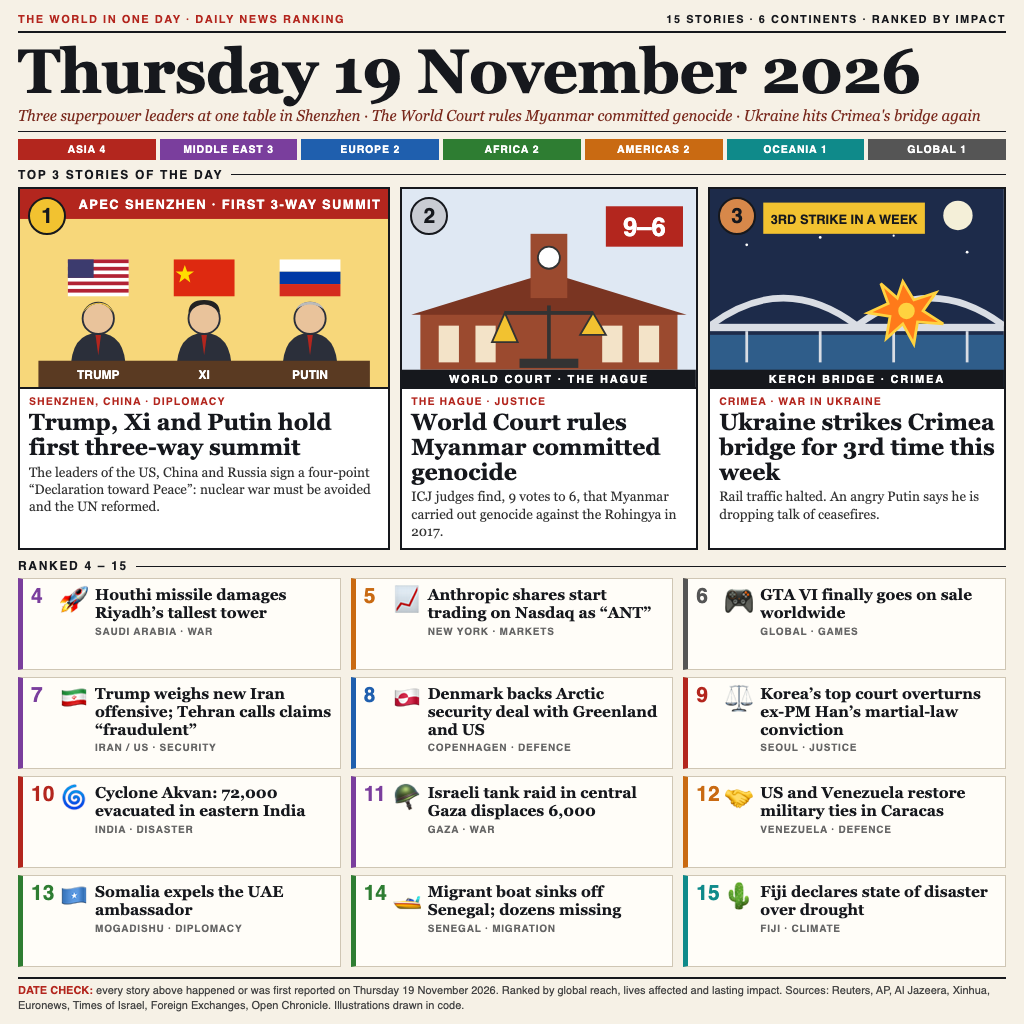
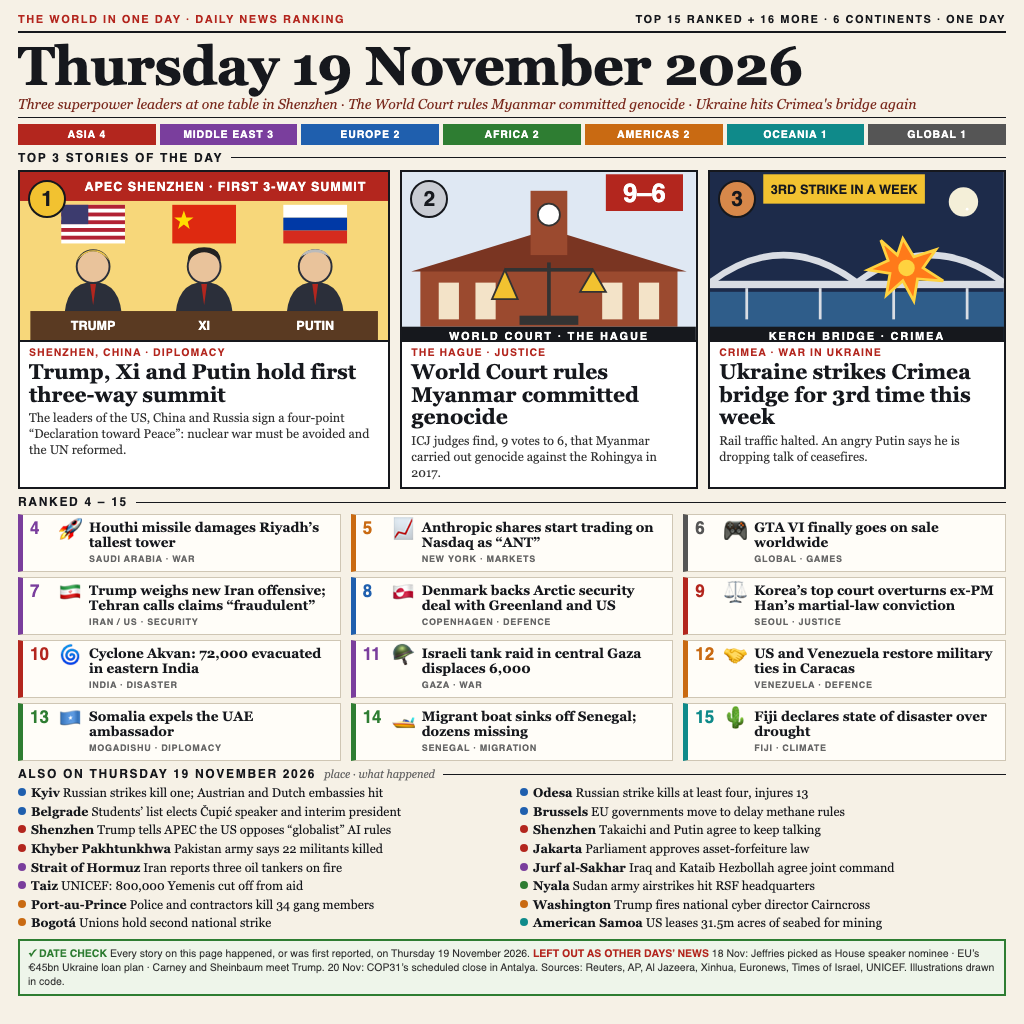
Add 'Also on Thursday 19 November 2026' section with places and a date check

diff --git a/page.html b/page.html
@@ -6,31 +6,37 @@ html,body{width:1024px;height:1024px;overflow:hidden}
 body{background:#f6f1e6;color:#16181d;font-family:Georgia,'Times New Roman',serif;padding:14px 18px}
 .top{display:flex;justify-content:space-between;font:700 11px/1 Helvetica,Arial,sans-serif;letter-spacing:.14em;color:#b3261e;border-bottom:2px solid #16181d;padding-bottom:6px}
 .top span:last-child{color:#16181d}
-h1{font-size:62px;line-height:1;letter-spacing:-.5px;margin:8px 0 4px;font-weight:700}
-.sub{font-style:italic;color:#7a2a1e;font-size:15px;border-bottom:1px solid #16181d;padding-bottom:7px}
-.cont{display:flex;gap:4px;margin:7px 0 9px}
+h1{font-size:54px;line-height:1;letter-spacing:-.5px;margin:6px 0 3px;font-weight:700}
+.sub{font-style:italic;color:#7a2a1e;font-size:14px;border-bottom:1px solid #16181d;padding-bottom:5px}
+.cont{display:flex;gap:4px;margin:6px 0 7px}
 .cont div{flex:1;color:#fff;font:700 10.5px/1 Helvetica,Arial,sans-serif;letter-spacing:.08em;text-align:center;padding:5px 0}
 .sec{font:700 12px/1 Helvetica,Arial,sans-serif;letter-spacing:.14em;margin:0 0 6px;display:flex;align-items:center;gap:8px}
 .sec:after{content:"";flex:1;border-top:1px solid #16181d}
-.top3{display:grid;grid-template-columns:1.25fr 1fr 1fr;gap:10px;margin-bottom:10px}
+.top3{display:grid;grid-template-columns:1.25fr 1fr 1fr;gap:10px;margin-bottom:7px}
 .card{background:#fff;border:2px solid #16181d;position:relative}
-.card svg{display:block;width:100%;height:200px;border-bottom:2px solid #16181d}
-.card .tx{padding:7px 9px 8px}
+.card svg{display:block;width:100%;height:170px;border-bottom:2px solid #16181d}
+.card .tx{padding:5px 9px 6px}
 .badge{position:absolute;top:8px;left:8px;width:38px;height:38px;border-radius:50%;border:2px solid #16181d;font:700 21px/34px Helvetica,Arial,sans-serif;text-align:center;color:#16181d}
 .g{background:#f2c230}.s{background:#c9ccd3}.b{background:#d7884a}
 .kick{font:700 10.5px/1 Helvetica,Arial,sans-serif;letter-spacing:.1em;color:#b3261e;margin-bottom:4px}
-.card h2{font-size:23px;line-height:1.08;margin-bottom:4px}
-.card p{font-size:13.5px;line-height:1.28;color:#333}
-.list{display:grid;grid-template-columns:repeat(3,1fr);gap:7px 10px}
-.it{display:flex;gap:7px;align-items:flex-start;background:#fffdf8;border:1px solid #cfc6b4;border-left:5px solid var(--c);padding:7px 8px;height:92px}
-.n{font:700 21px/1 Helvetica,Arial,sans-serif;min-width:22px;color:var(--c)}
-.ic{font-size:28px;line-height:1}
-.it b{display:block;font-size:15.5px;line-height:1.14}
-.it i{display:block;font:700 10px/1.2 Helvetica,Arial,sans-serif;letter-spacing:.08em;color:#666;font-style:normal;margin-top:3px;text-transform:uppercase}
+.card h2{font-size:21px;line-height:1.08;margin-bottom:4px}
+.card p{font-size:12.5px;line-height:1.28;color:#333}
+.list{display:grid;grid-template-columns:repeat(3,1fr);gap:5px 10px;margin-bottom:7px}
+.it{display:flex;gap:7px;align-items:flex-start;background:#fffdf8;border:1px solid #cfc6b4;border-left:5px solid var(--c);padding:5px 7px;height:58px}
+.n{font:700 17px/1 Helvetica,Arial,sans-serif;min-width:22px;color:var(--c)}
+.ic{font-size:21px;line-height:1}
+.it b{display:block;font-size:13.5px;line-height:1.13}
+.it i{display:block;font:700 9px/1.2 Helvetica,Arial,sans-serif;letter-spacing:.08em;color:#666;font-style:normal;margin-top:3px;text-transform:uppercase}
 .foot{margin-top:10px;border-top:2px solid #16181d;padding-top:5px;font:11px/1.35 Helvetica,Arial,sans-serif;color:#444}
 .foot b{color:#b3261e}
+.also{display:grid;grid-template-columns:1fr 1fr;gap:3px 16px;font-size:12.5px;line-height:1.25;margin-bottom:7px}
+.also div{white-space:nowrap;overflow:hidden;text-overflow:ellipsis}
+.dot{display:inline-block;width:8px;height:8px;border-radius:50%;margin-right:5px;vertical-align:1px}
+.hint{font:italic 400 11px Georgia,serif;letter-spacing:0;color:#666}
+.date{border:2px solid #2e7d32;background:#eef5ea;padding:5px 8px;font:10.5px/1.35 Helvetica,Arial,sans-serif;color:#333}
+.date b{color:#2e7d32}.date b.r{color:#b3261e}
 </style></head><body>
-<div class="top"><span>THE WORLD IN ONE DAY · DAILY NEWS RANKING</span><span>15 STORIES · 6 CONTINENTS · RANKED BY IMPACT</span></div>
+<div class="top"><span>THE WORLD IN ONE DAY · DAILY NEWS RANKING</span><span>TOP 15 RANKED + 16 MORE · 6 CONTINENTS · ONE DAY</span></div>
 <h1>Thursday 19 November 2026</h1>
 <div class="sub">Three superpower leaders at one table in Shenzhen · The World Court rules Myanmar committed genocide · Ukraine hits Crimea's bridge again</div>
 <div class="cont">
@@ -40,10 +46,10 @@ h1{font-size:62px;line-height:1;letter-spacing:-.5px;margin:8px 0 4px;font-weigh
 <div class="sec">TOP 3 STORIES OF THE DAY</div>
 <div class="top3">
  <div class="card">
-  <svg viewBox="0 -40 400 218" preserveAspectRatio="xMidYMid slice">
-   <rect y="-40" width="400" height="218" fill="#f7d77a"/>
-   <rect y="-40" width="400" height="34" fill="#b3261e"/>
-   <text x="228" y="-17" text-anchor="middle" font-family="Helvetica" font-weight="700" font-size="14" fill="#fff" letter-spacing="1.5">APEC SHENZHEN · FIRST 3-WAY SUMMIT</text>
+  <svg viewBox="0 4 400 174" preserveAspectRatio="xMidYMid slice">
+   <rect y="0" width="400" height="178" fill="#f7d77a"/>
+   <rect y="0" width="400" height="34" fill="#b3261e"/>
+   <text x="222" y="24" text-anchor="middle" font-family="Helvetica" font-weight="700" font-size="13" fill="#fff" letter-spacing="1">APEC SHENZHEN · FIRST 3-WAY SUMMIT</text>
    <!-- flags -->
    <g transform="translate(52,38)"><rect width="66" height="40" fill="#fff"/><g fill="#b22234"><rect width="66" height="4"/><rect y="8" width="66" height="4"/><rect y="16" width="66" height="4"/><rect y="24" width="66" height="4"/><rect y="32" width="66" height="4"/></g><rect width="28" height="20" fill="#3c3b6e"/></g>
    <g transform="translate(167,38)"><rect width="66" height="40" fill="#de2910"/><polygon points="12,6 14.5,13 22,13 16,17.5 18,25 12,20.5 6,25 8,17.5 2,13 9.5,13" fill="#ffde00"/></g>
@@ -62,7 +68,7 @@ h1{font-size:62px;line-height:1;letter-spacing:-.5px;margin:8px 0 4px;font-weigh
   <p>The leaders of the US, China and Russia sign a four-point “Declaration toward Peace”: nuclear war must be avoided and the UN reformed.</p></div>
  </div>
  <div class="card">
-  <svg viewBox="0 -40 320 218" preserveAspectRatio="xMidYMid slice">
+  <svg viewBox="0 -16 320 194" preserveAspectRatio="xMidYMid slice">
    <rect y="-40" width="320" height="218" fill="#dfe8f3"/>
    <rect x="20" y="96" width="280" height="62" fill="#9b4a2f"/><polygon points="10,98 160,52 310,98" fill="#7a3522"/>
    <g fill="#f3e3c8"><rect x="40" y="110" width="22" height="40"/><rect x="80" y="110" width="22" height="40"/><rect x="218" y="110" width="22" height="40"/><rect x="258" y="110" width="22" height="40"/></g>
@@ -70,7 +76,7 @@ h1{font-size:62px;line-height:1;letter-spacing:-.5px;margin:8px 0 4px;font-weigh
    <g stroke="#333" stroke-width="4" fill="none"><line x1="160" y1="88" x2="160" y2="150"/><line x1="112" y1="96" x2="208" y2="96"/></g>
    <path d="M98 128 l14-32 14 32z" fill="#f2c230" stroke="#333" stroke-width="2"/><path d="M194 120 l14-24 14 24z" fill="#f2c230" stroke="#333" stroke-width="2"/>
    <rect x="128" y="146" width="64" height="10" fill="#333"/>
-   <rect x="222" y="-20" width="84" height="44" fill="#b3261e"/><text x="264" y="12" text-anchor="middle" font-family="Helvetica" font-weight="700" font-size="28" fill="#fff">9–6</text>
+   <rect x="222" y="-8" width="84" height="40" fill="#b3261e"/><text x="264" y="22" text-anchor="middle" font-family="Helvetica" font-weight="700" font-size="28" fill="#fff">9–6</text>
    <rect y="158" width="320" height="20" fill="#16181d"/><text x="160" y="173" text-anchor="middle" font-family="Helvetica" font-weight="700" font-size="12" fill="#fff" letter-spacing="2">WORLD COURT · THE HAGUE</text>
   </svg>
   <div class="badge s">2</div>
@@ -79,8 +85,8 @@ h1{font-size:62px;line-height:1;letter-spacing:-.5px;margin:8px 0 4px;font-weigh
   <p>ICJ judges find, 9 votes to 6, that Myanmar carried out genocide against the Rohingya in 2017.</p></div>
  </div>
  <div class="card">
-  <svg viewBox="0 -40 320 218" preserveAspectRatio="xMidYMid slice">
-   <rect y="-40" width="320" height="218" fill="#1d2b4a"/><circle cx="270" cy="-10" r="16" fill="#f4efd8"/>
+  <svg viewBox="0 -16 320 194" preserveAspectRatio="xMidYMid slice">
+   <rect y="-40" width="320" height="218" fill="#1d2b4a"/><circle cx="276" cy="22" r="16" fill="#f4efd8"/>
    <g fill="#fff"><circle cx="40" cy="22" r="1.5"/><circle cx="120" cy="14" r="1.5"/><circle cx="280" cy="30" r="1.5"/><circle cx="200" cy="12" r="1.2"/></g>
    <rect y="120" width="320" height="58" fill="#2f5d8a"/>
    <path d="M0 110 Q80 50 160 110 Q240 50 320 110" fill="none" stroke="#d9dde4" stroke-width="7"/>
@@ -88,7 +94,7 @@ h1{font-size:62px;line-height:1;letter-spacing:-.5px;margin:8px 0 4px;font-weigh
    <g stroke="#d9dde4" stroke-width="3"><line x1="40" y1="116" x2="40" y2="150"/><line x1="120" y1="116" x2="120" y2="150"/><line x1="200" y1="116" x2="200" y2="150"/><line x1="280" y1="116" x2="280" y2="150"/></g>
    <polygon points="210,62 222,82 246,74 232,94 254,108 226,106 222,130 210,108 192,124 196,100 172,96 194,86 186,64 204,80" fill="#ff7a1a" stroke="#ffd23f" stroke-width="3"/>
    <circle cx="214" cy="94" r="9" fill="#ffd23f"/>
-   <rect x="58" y="-24" width="176" height="34" fill="#f2c230"/><text x="146" y="-1" text-anchor="middle" font-family="Helvetica" font-weight="700" font-size="14" fill="#16181d">3RD STRIKE IN A WEEK</text>
+   <rect x="58" y="-8" width="176" height="32" fill="#f2c230"/><text x="146" y="14" text-anchor="middle" font-family="Helvetica" font-weight="700" font-size="14" fill="#16181d">3RD STRIKE IN A WEEK</text>
    <rect y="158" width="320" height="20" fill="#16181d"/><text x="160" y="173" text-anchor="middle" font-family="Helvetica" font-weight="700" font-size="12" fill="#fff" letter-spacing="2">KERCH BRIDGE · CRIMEA</text>
   </svg>
   <div class="badge b">3</div>
@@ -113,5 +119,7 @@ h1{font-size:62px;line-height:1;letter-spacing:-.5px;margin:8px 0 4px;font-weigh
  <div class="it" style="--c:#2e7d32"><span class="n">14</span><span class="ic">🚤</span><div><b>Migrant boat sinks off Senegal; dozens missing</b><i>Senegal · Migration</i></div></div>
  <div class="it" style="--c:#0f8a8a"><span class="n">15</span><span class="ic">🌵</span><div><b>Fiji declares state of disaster over drought</b><i>Fiji · Climate</i></div></div>
 </div>
-<div class="foot"><b>DATE CHECK:</b> every story above happened or was first reported on Thursday 19 November 2026. Ranked by global reach, lives affected and lasting impact. Sources: Reuters, AP, Al Jazeera, Xinhua, Euronews, Times of Israel, Foreign Exchanges, Open Chronicle. Illustrations drawn in code.</div>
+<div class="sec">ALSO ON THURSDAY 19 NOVEMBER 2026 <span class="hint">place · what happened</span></div>
+<div class="also"><div><span class="dot" style="background:#1f5fae"></span><b>Kyiv</b> Russian strikes kill one; Austrian and Dutch embassies hit</div><div><span class="dot" style="background:#1f5fae"></span><b>Odesa</b> Russian strike kills at least four, injures 13</div><div><span class="dot" style="background:#1f5fae"></span><b>Belgrade</b> Students’ list elects Čupić speaker and interim president</div><div><span class="dot" style="background:#1f5fae"></span><b>Brussels</b> EU governments move to delay methane rules</div><div><span class="dot" style="background:#b3261e"></span><b>Shenzhen</b> Trump tells APEC the US opposes “globalist” AI rules</div><div><span class="dot" style="background:#b3261e"></span><b>Shenzhen</b> Takaichi and Putin agree to keep talking</div><div><span class="dot" style="background:#b3261e"></span><b>Khyber Pakhtunkhwa</b> Pakistan army says 22 militants killed</div><div><span class="dot" style="background:#b3261e"></span><b>Jakarta</b> Parliament approves asset-forfeiture law</div><div><span class="dot" style="background:#7a3e9d"></span><b>Strait of Hormuz</b> Iran reports three oil tankers on fire</div><div><span class="dot" style="background:#7a3e9d"></span><b>Jurf al-Sakhar</b> Iraq and Kataib Hezbollah agree joint command</div><div><span class="dot" style="background:#7a3e9d"></span><b>Taiz</b> UNICEF: 800,000 Yemenis cut off from aid</div><div><span class="dot" style="background:#2e7d32"></span><b>Nyala</b> Sudan army airstrikes hit RSF headquarters</div><div><span class="dot" style="background:#c96a12"></span><b>Port-au-Prince</b> Police and contractors kill 34 gang members</div><div><span class="dot" style="background:#c96a12"></span><b>Washington</b> Trump fires national cyber director Cairncross</div><div><span class="dot" style="background:#c96a12"></span><b>Bogotá</b> Unions hold second national strike</div><div><span class="dot" style="background:#0f8a8a"></span><b>American Samoa</b> US leases 31.5m acres of seabed for mining</div></div>
+<div class="date"><b>✓ DATE CHECK</b> Every story on this page happened, or was first reported, on Thursday 19 November 2026. <b class="r">LEFT OUT AS OTHER DAYS’ NEWS</b> 18 Nov: Jeffries picked as House speaker nominee · EU’s €45bn Ukraine loan plan · Carney and Sheinbaum meet Trump. 20 Nov: COP31’s scheduled close in Antalya. Sources: Reuters, AP, Al Jazeera, Xinhua, Euronews, Times of Israel, UNICEF. Illustrations drawn in code.</div>
 </body></html>

diff --git a/README.md b/README.md
@@ -4,6 +4,6 @@
 [![rank](https://make.fun/badge/news-image-20261119/aviharez/news-image-20261119/rank.svg)](https://make.fun/bounty/news-image-20261119/leaderboard?utm_source=github&utm_medium=readme&utm_campaign=news-image-20261119)
 [![reward](https://make.fun/badge/news-image-20261119/aviharez/news-image-20261119/reward.svg)](https://make.fun/bounty/news-image-20261119?utm_source=github&utm_medium=readme&utm_campaign=news-image-20261119)
 
-Entry for the make.fun bounty [Sum up 19 November's world news in one image](https://make.fun/bounty/news-image-20261119): the day's 15 biggest stories from six continents, ranked, with the top 3 illustrated.
+Entry for the make.fun bounty [Sum up 19 November's world news in one image](https://make.fun/bounty/news-image-20261119): the day's 15 biggest stories from six continents, ranked, with the top 3 illustrated, plus 16 more stories with where each happened and a date check.
 
 `page.html` is the source; `entry.png` is that page rendered at 1024x1024 with headless Chrome. Run: `MAKEFUN_OUTPUT_DIR=out node main.ts`, which copies the image to `out/entry.png`.
